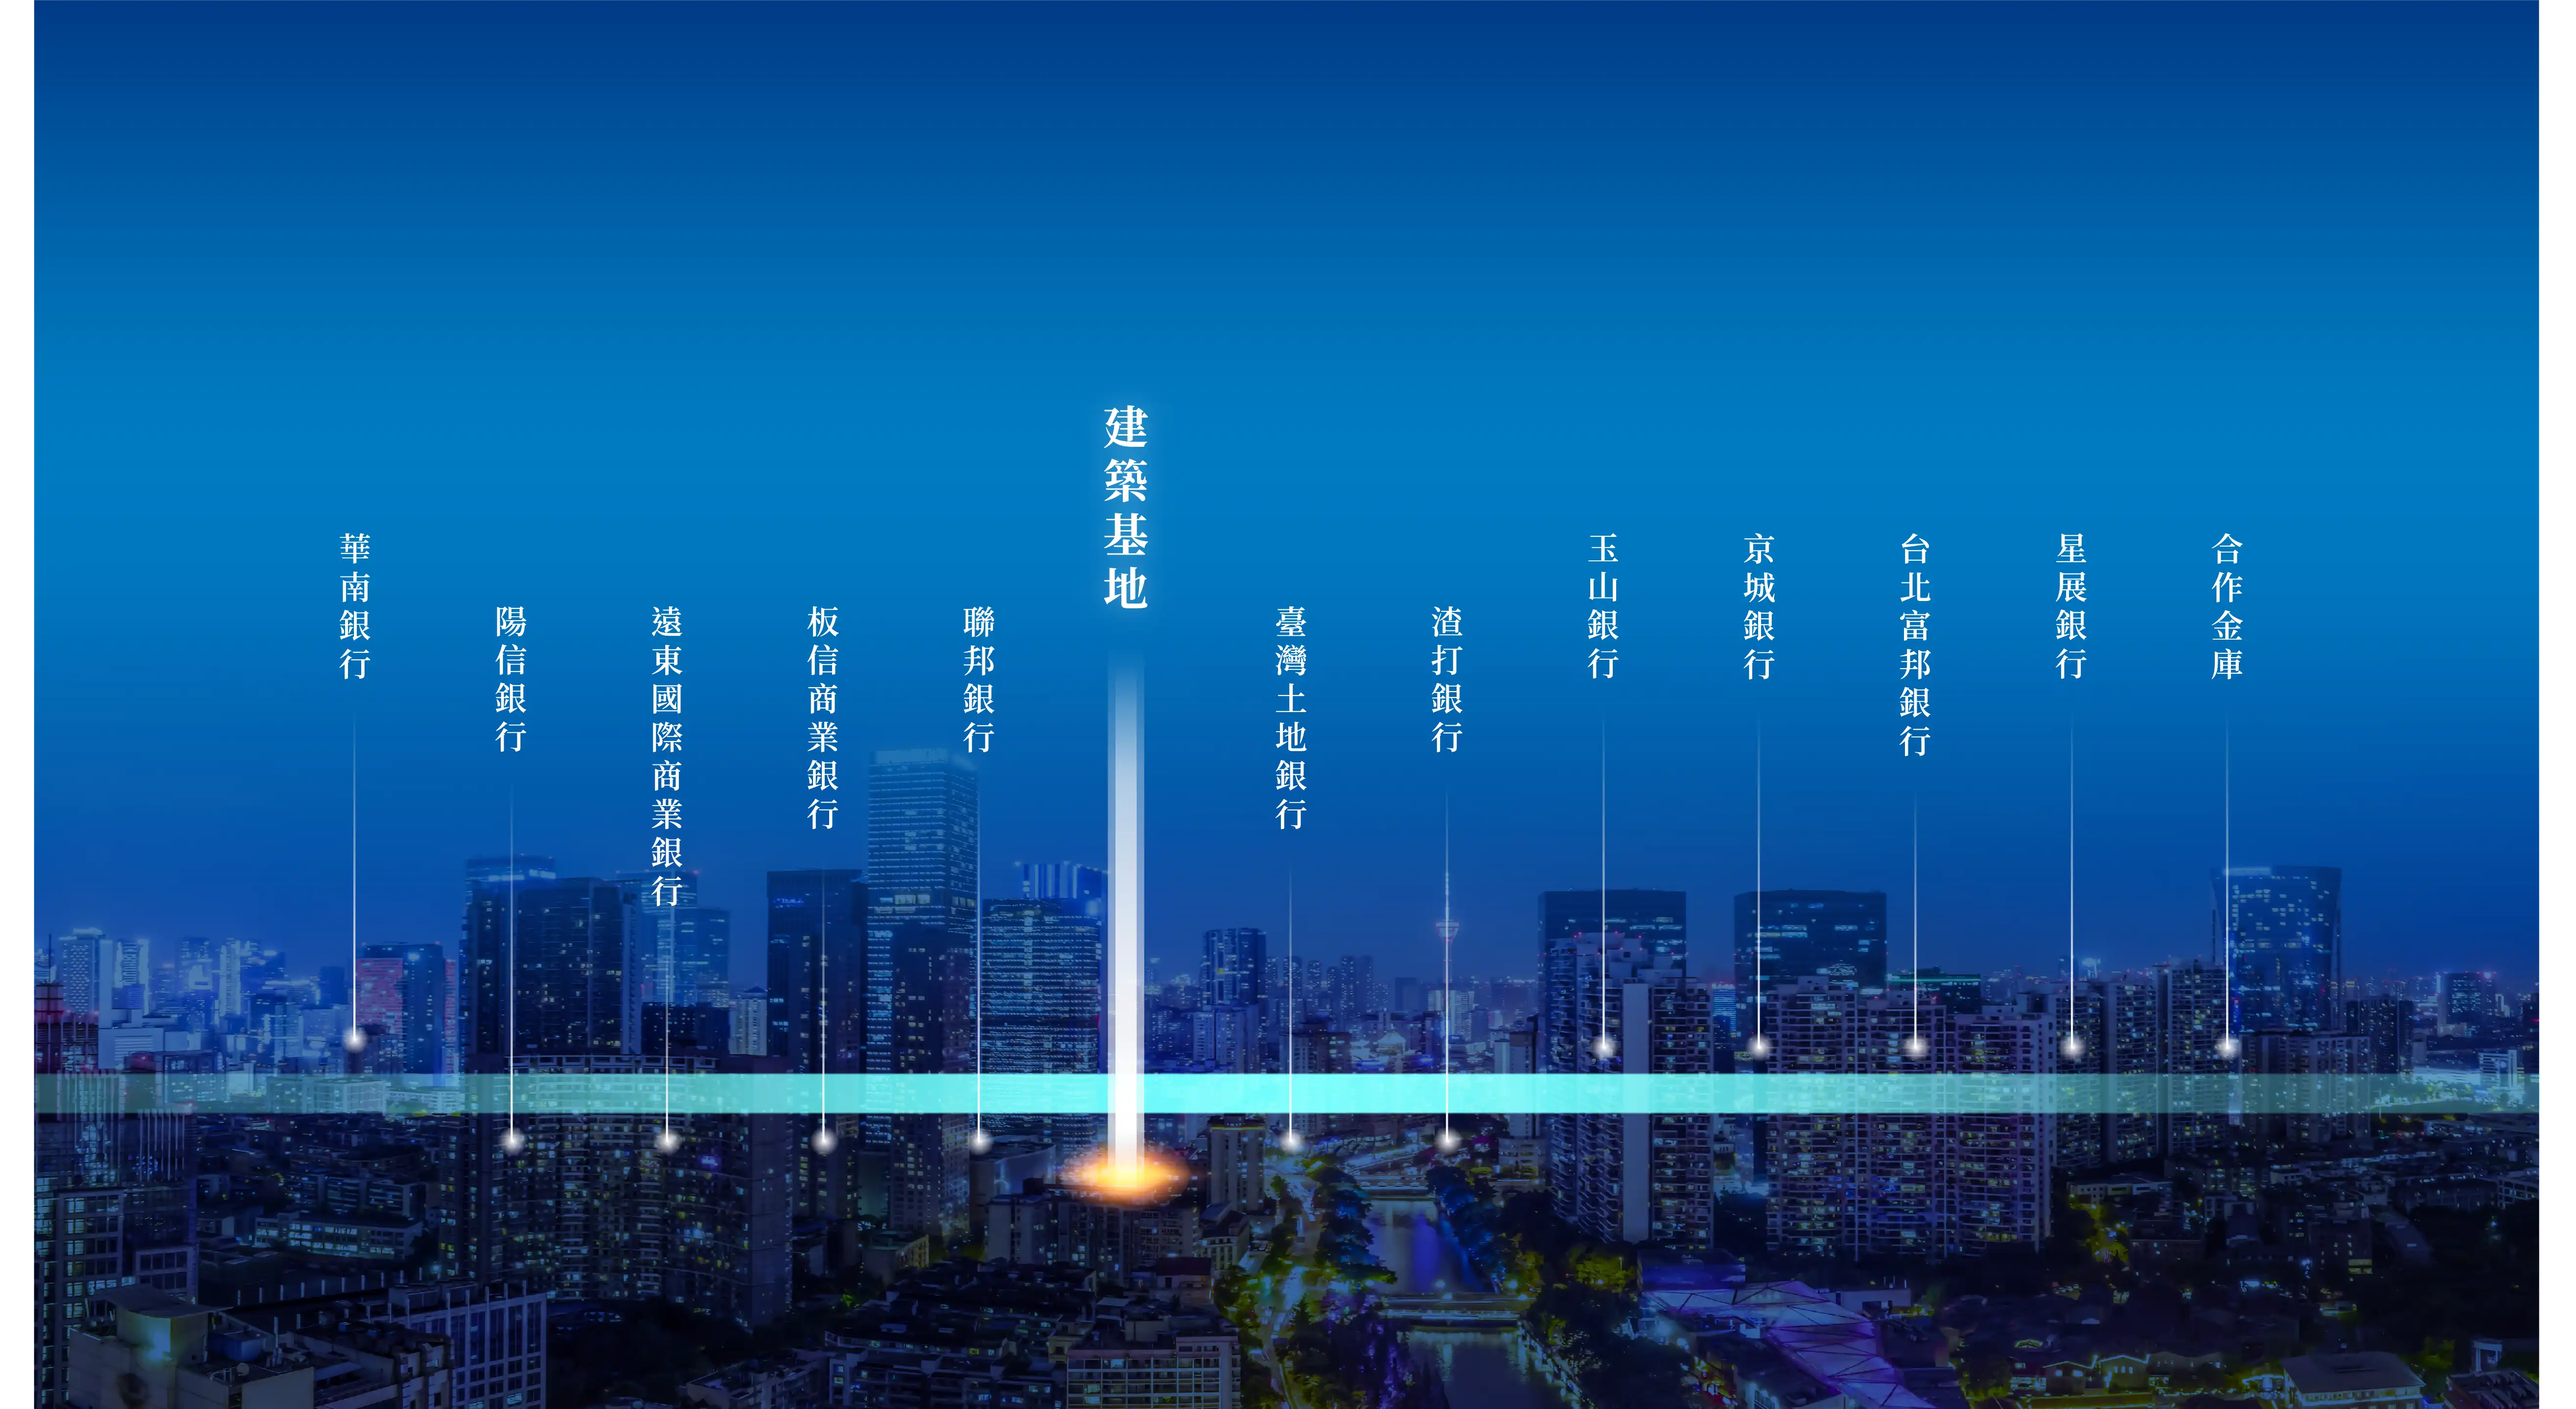
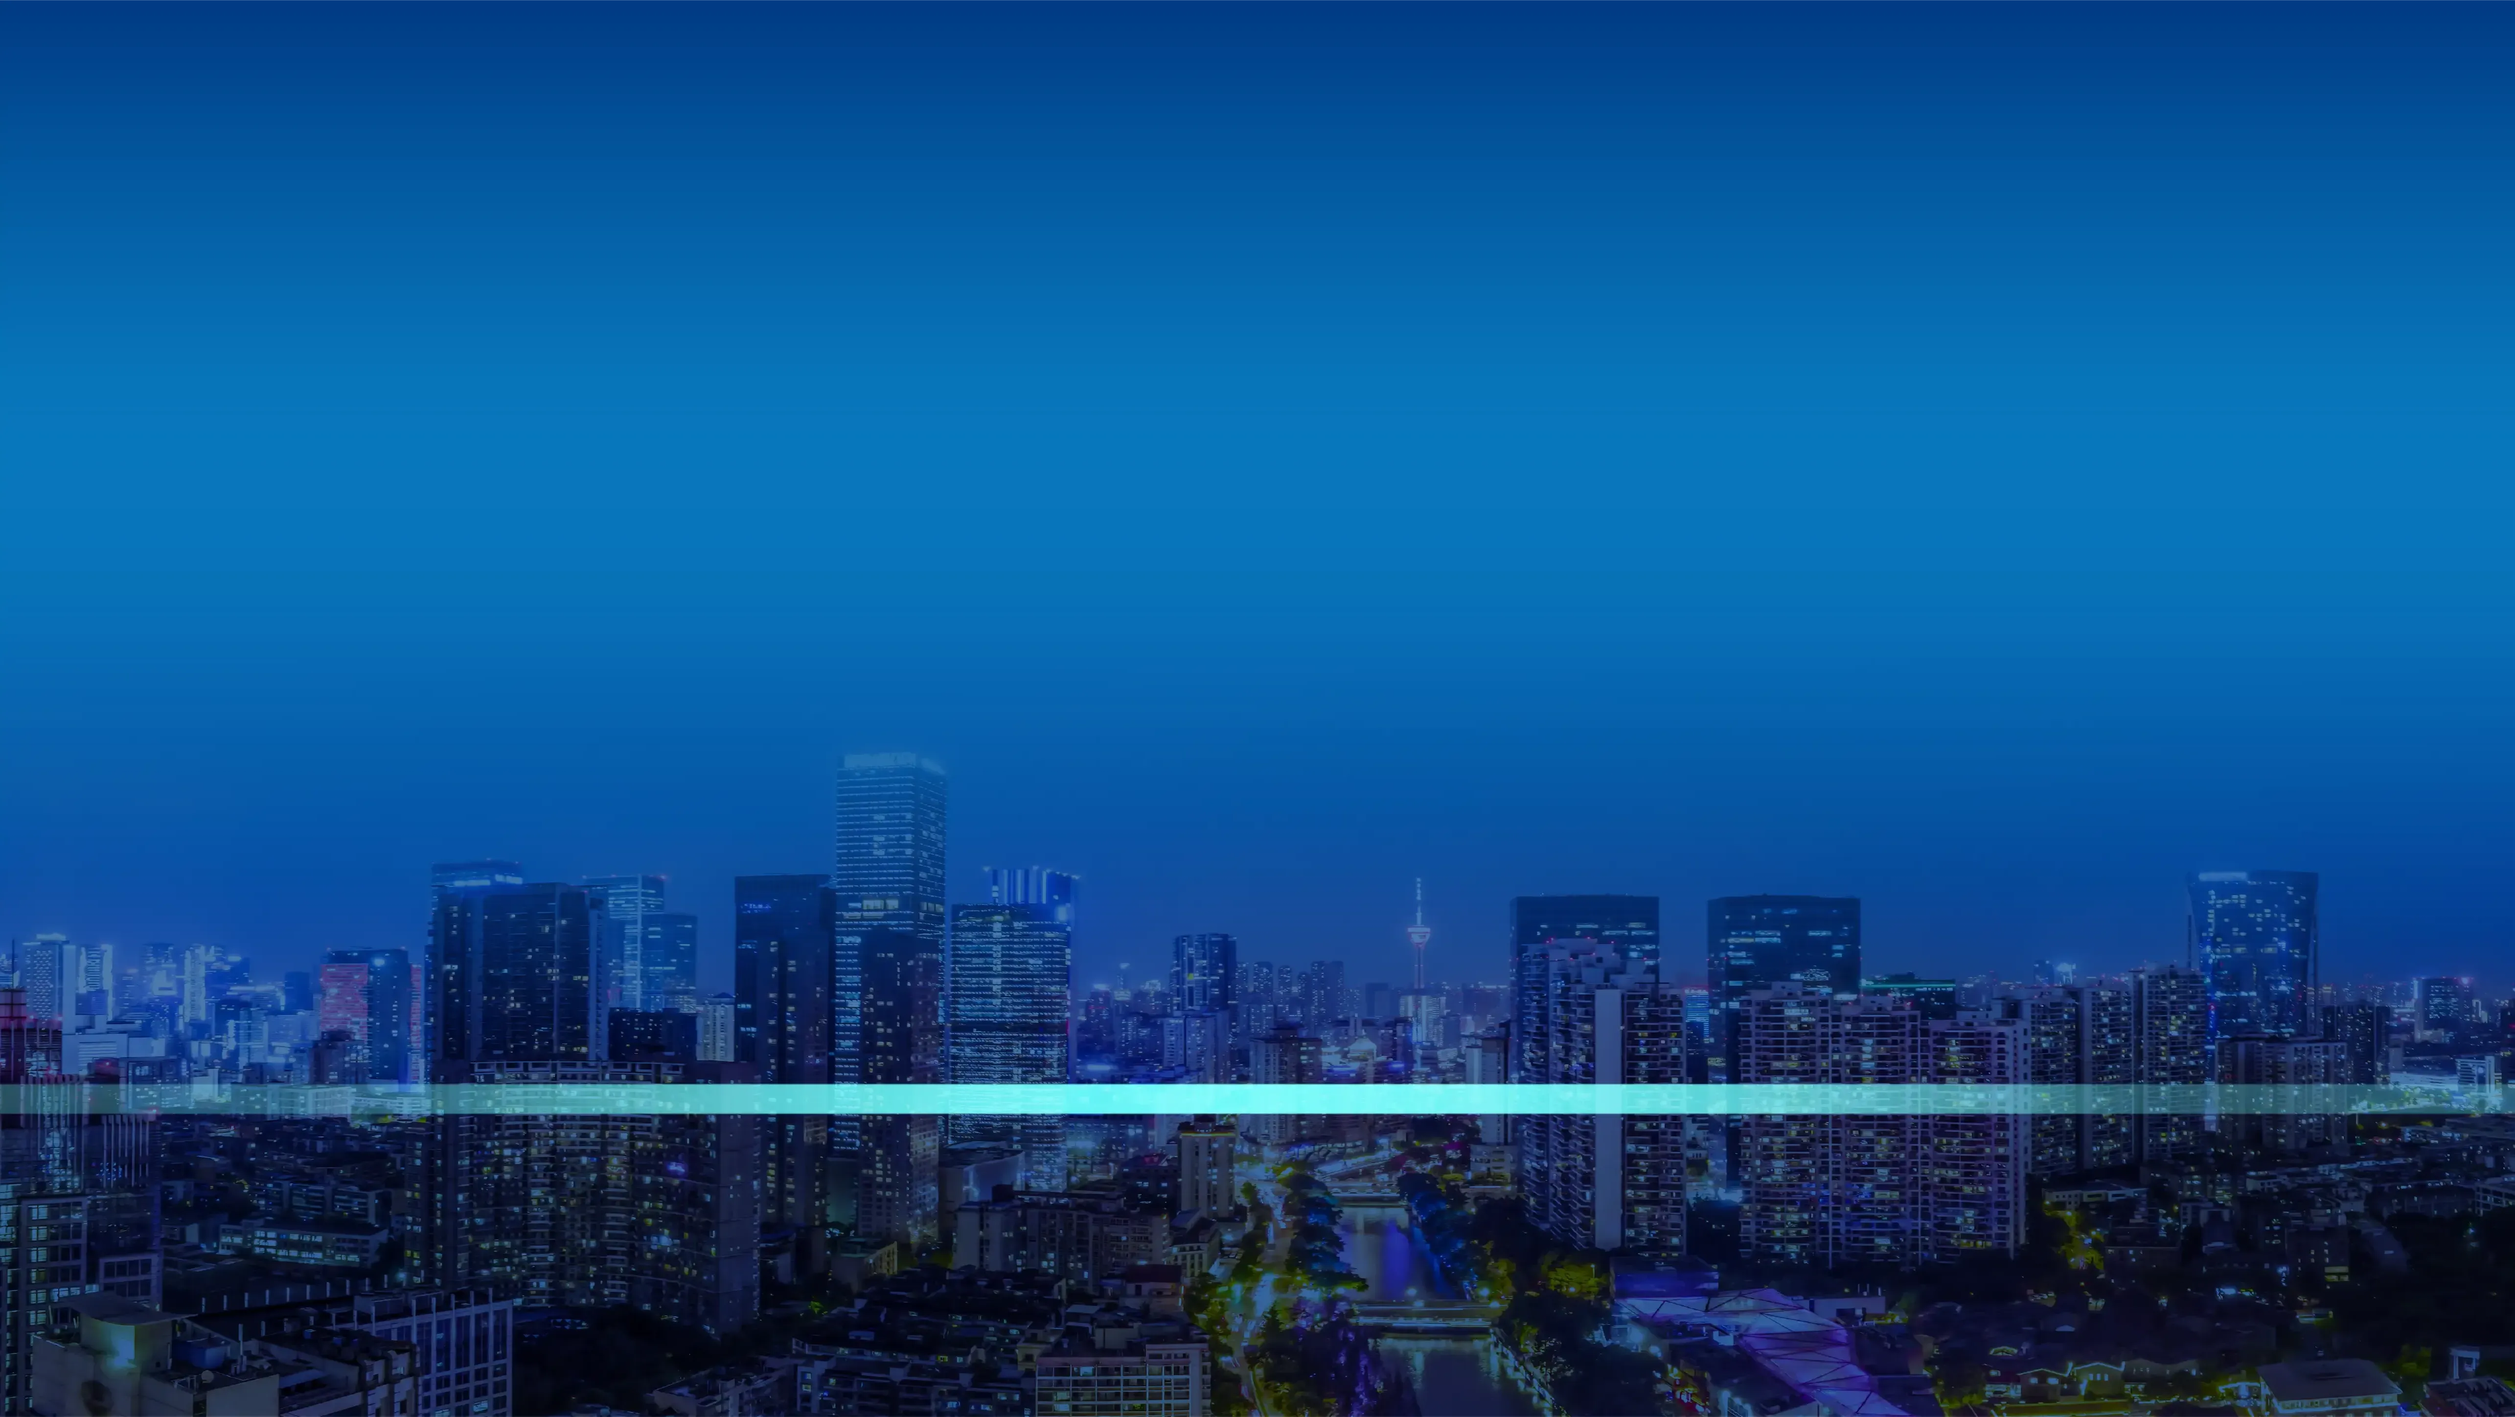
feat. 門牌價值加上動態效果

diff --git a/src/components/metro/HouseNumber.vue b/src/components/metro/HouseNumber.vue
@@ -1,25 +1,66 @@
 <template>
   <div class="number-box">
-    <div class="overlay-close" @click="closeWithAnimation"></div>
-    <div class="img-box">
-      <img src="../../assets/img/metro/door_bg.webp" alt="door_bg" srcset="" />
-    </div>
+    <Swiper
+      :modules="[Navigation, EffectFade]"
+      navigation
+      :speed="800"
+      :loop="true"
+      class="mansion-single-swiper-container"
+      :effect="'fade'"
+    >
+      <SwiperSlide>
+        <div class="overlay-close" @click="closeWithAnimation"></div>
+        <div class="img-box">
+          <img src="../../assets/img/metro/door_bg.webp" alt="door_bg" srcset="" />
+        </div>
 
-    <div class="number-content-box">
-      <div class="title-box">
-        <div class="title">
-          <div class="img-40">
-            <img src="../../assets/img/metro/40.png" alt="40" srcset="" />
+        <div class="number-content-box">
+          <div class="title-box">
+            <div class="title">
+              <div class="img-40">
+                <img src="../../assets/img/metro/40.png" alt="40" srcset="" />
+              </div>
+              <div class="title-text">米文心金融大道，門牌身段</div>
+            </div>
+            <div class="small-title">
+              <img src="../../assets/img/metro/number_title.png" alt="number_title" srcset="" />
+            </div>
           </div>
-          米文心金融大道，門牌身段
         </div>
-        <div class="small-title">
-          <img src="../../assets/img/metro/number_title.png" alt="number_title" srcset="" />
-        </div>
-      </div>
-    </div>
 
-    <div class="hint">情境示意圖</div>
+        <img src="../../assets/img/metro/main_text.png" alt="main_text" class="text" />
+        <img src="../../assets/img/metro/light.png" alt="light" class="light" />
+
+        <div class="hint">情境示意圖</div>
+      </SwiperSlide>
+
+      <SwiperSlide>
+        <div class="overlay-close" @click="closeWithAnimation"></div>
+        <div class="img-box bank-img-box">
+          <img src="../../assets/img/metro/bank_bg.webp" alt="bank_bg" srcset="" />
+        </div>
+        <img src="../../assets/img/metro/light2.png" alt="light2" class="bank-light light2" />
+        <img src="../../assets/img/metro/light2.png" alt="light2" class="bank-light light3" />
+        <img src="../../assets/img/metro/light2.png" alt="light2" class="bank-light light4" />
+        <img src="../../assets/img/metro/light2.png" alt="light2" class="bank-light light5" />
+        <img src="../../assets/img/metro/light2.png" alt="light2" class="bank-light light6" />
+        <img src="../../assets/img/metro/light2.png" alt="light2" class="bank-light light7" />
+        <img src="../../assets/img/metro/light2.png" alt="light2" class="bank-light light8" />
+
+        <div class="bank-content-box">
+          <div class="title-box">
+            <div class="title">
+              <img src="../../assets/img/metro/bank_title.png" alt="bank_title" srcset="" />
+            </div>
+            <div class="small-title">
+              <img src="../../assets/img/metro/bank_title2.png" alt="bank_title2" srcset="" />
+            </div>
+          </div>
+        </div>
+
+        <div class="hint">情境示意圖</div>
+      </SwiperSlide>
+    </Swiper>
   </div>
 </template>
 
@@ -27,6 +68,11 @@
 import { onMounted, defineEmits } from 'vue'
 import gsap from 'gsap'
 import SplitText from 'gsap/SplitText'
+import { Swiper, SwiperSlide } from 'swiper/vue'
+import { EffectFade, Navigation } from 'swiper/modules'
+import 'swiper/css'
+import 'swiper/css/navigation'
+import 'swiper/css/effect-fade'
 
 import '@/assets/scss/metro/_house-number.scss'
 
@@ -34,8 +80,8 @@ gsap.registerPlugin(SplitText)
 
 const emit = defineEmits(['close'])
 
-const imgAni = () => {
-  const tl = gsap.timeline({})
+const openAni = () => {
+  const tl = gsap.timeline({ delay: 0.1 })
 
   tl.fromTo(
     '.number-box',
@@ -53,22 +99,62 @@ const imgAni = () => {
       {
         duration: 1.2,
         opacity: 0,
-
         scale: 1.4,
-
         ease: 'power1.inOut',
       },
       '<0.2',
     )
     .from(
-      '#metro-view .number-box .number-content-box .title-box div',
+      '#metro-view .number-box .number-content-box .title-box .title .img-40,.title-text',
       {
         duration: 1,
         opacity: 0,
         y: '80',
-        stagger: 0.08,
+        stagger: 0.2,
       },
       '<0.5',
+    )
+    .from(
+      '#metro-view .number-box .number-content-box .title-box .small-title',
+      {
+        duration: 1,
+        opacity: 0,
+        y: '80',
+      },
+      '<0.3',
+    )
+
+    .fromTo(
+      '#metro-view .number-box .text',
+      {
+        y: 100,
+        maskPosition: '200% 0',
+      },
+      {
+        y: 0,
+        maskPosition: '0% 0%',
+        duration: 1.8,
+        // ease: 'cubic-bezier(0.24,0.43,0.15,0.97)',
+      },
+      '<0.2',
+    )
+    .from(
+      '#metro-view .number-box .light',
+      {
+        duration: 1,
+        opacity: 0,
+        onComplete: () => {
+          // 呼吸燈效果
+          gsap.to('#metro-view .number-box .light', {
+            opacity: 0.3,
+            duration: 1.2,
+            yoyo: true,
+            repeat: -1,
+            ease: 'power1.inOut',
+          })
+        },
+      },
+      '<0.85',
     )
 }
 
@@ -88,8 +174,13 @@ const closeWithAnimation = () => {
 
 // 初始化時先呼叫一次
 onMounted(async () => {
-  imgAni()
+  openAni()
 })
 </script>
 
-<style scoped></style>
+<style scoped>
+.swiper-button-prev,
+.swiper-button-next {
+  color: #000; /* 可自行換顏色 */
+}
+</style>

diff --git a/src/assets/scss/metro/_house-number.scss b/src/assets/scss/metro/_house-number.scss
@@ -1,6 +1,24 @@
 @use '../utils/mixin' as *;
 
 #metro-view {
+  position: relative;
+  .swiper-button-prev,
+  .swiper-button-next {
+    color: #fff !important;
+    width: 4vw !important;
+    height: 3vw !important;
+
+    &::after {
+      font-size: 2vw;
+    }
+  }
+  .swiper-button-prev {
+    left: 0px;
+  }
+  .swiper-button-next {
+    right: 0px;
+  }
+
   .number-box {
     position: absolute;
     width: 100%;
@@ -60,7 +78,7 @@
           }
         }
         .small-title {
-          width: 19vw;
+          width: 20vw;
         }
       }
       .content {
@@ -75,6 +93,92 @@
       }
     }
 
+    .bank-content-box {
+      position: absolute;
+      top: 16%;
+      left: 50%;
+      transform: translate(-50%, -50%);
+      display: flex;
+      flex-direction: column;
+
+      .title-box {
+        display: flex;
+        flex-direction: column;
+        justify-content: center;
+        align-items: center;
+        .title {
+          width: 38vw;
+          margin-bottom: 0.7vw;
+        }
+        .small-title {
+          width: 55vw;
+        }
+      }
+    }
+
+    .bank-light {
+      position: absolute;
+      width: 10vw;
+      mix-blend-mode: plus-lighter;
+
+      /* 發光基礎動畫 */
+      animation: light-glow 2.5s infinite ease-in-out;
+      opacity: 0.6;
+    }
+    /* 呼吸發光 */
+    @keyframes light-glow {
+      0%,
+      100% {
+        opacity: 0.2;
+        transform: scale(1);
+      }
+      50% {
+        opacity: 0.8;
+        transform: scale(1.08);
+      }
+    }
+    .light2 {
+      top: 30%;
+      left: 52%;
+      animation-delay: 0s;
+    }
+
+    .light3 {
+      top: 53%;
+      left: 62%;
+      animation-delay: 0.6s;
+    }
+
+    .light4 {
+      top: 64%;
+      left: 52%;
+      animation-delay: 1.2s;
+    }
+
+    .light5 {
+      top: 70%;
+      left: 67%;
+      animation-delay: 0.9s;
+    }
+
+    .light6 {
+      top: 33%;
+      left: 69%;
+      animation-delay: 0.3s;
+    }
+
+    .light7 {
+      top: 62%;
+      left: 79%;
+      animation-delay: 1.5s;
+    }
+
+    .light8 {
+      top: 46%;
+      left: 81%;
+      animation-delay: 0.75s;
+    }
+
     .hint {
       @include hint();
       & {
@@ -84,6 +188,29 @@
         top: 72%;
         bottom: initial;
       }
+    }
+
+    .text {
+      position: absolute;
+      width: 81%;
+      top: 24%;
+      left: 9.5%;
+      mask-image: linear-gradient(90deg, #000 0, #000 50%, transparent 100%);
+      mask-repeat: no-repeat;
+      -webkit-mask-size: 200% 100%;
+      mask-size: 200% 100%;
+      -webkit-mask-position: 200% 0;
+      mask-position: 200% 0;
+    }
+
+    .light {
+      position: absolute;
+      z-index: 60;
+      transform: translate(-50%, -50%);
+      width: 6%;
+      top: 83%;
+      left: 43%;
+      mix-blend-mode: lighten;
     }
   }
 }
